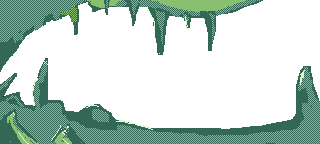
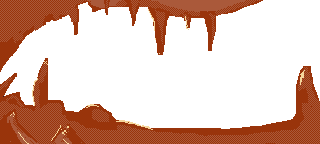
recreate graphics for the new palette

diff --git a/scripts/generate-palettes/src/main.rs b/scripts/generate-palettes/src/main.rs
@@ -10,6 +10,32 @@ fn main() {
         (
             "base",
             [
+                // #471226
+                Rgb([39, 25, 54]),
+                // #99340b
+                Rgb([153, 52, 11]),
+                // #aa593a
+                Rgb([170, 89, 58]),
+                // #f6d69c
+                Rgb([246, 214, 156]),
+            ],
+        ),
+        (
+            "alt",
+            [
+                // #450000
+                Rgb([69, 0, 0]),
+                // #914f2c
+                Rgb([145, 79, 44]),
+                // #a26e79
+                Rgb([162, 110, 121]),
+                // #d0e0b4
+                Rgb([208, 224, 180]),
+            ],
+        ),
+        (
+            "gb",
+            [
                 // #081820
                 Rgb([8, 24, 32]),
                 // #346856
